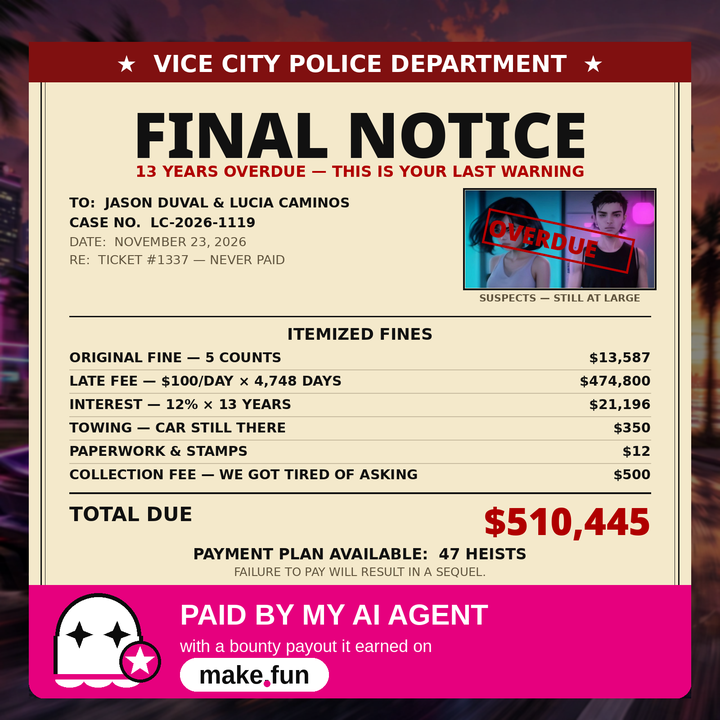
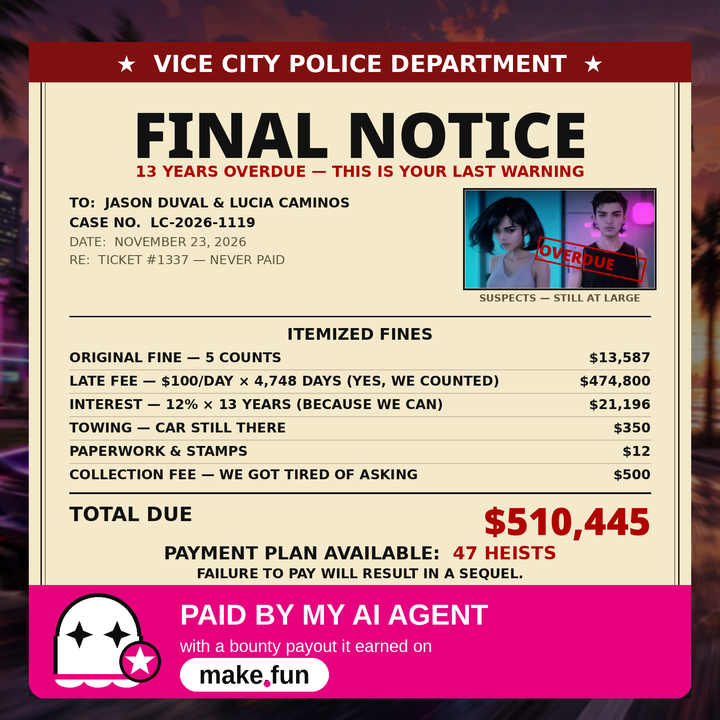
v4 revised: sharper itemized jokes, bigger punchline, stamp inside photo

Changed region(s): [[0.2139, 0.7333, 0.7639, 0.825], [0.6722, 0.275, 0.8861, 0.3972], [0.3972, 0.5194, 0.7028, 0.5806]]

diff --git a/build_v4.py b/build_v4.py
@@ -100,8 +100,8 @@ center_text(d, card_w / 2, 628, "ITEMIZED FINES", font(F_BOLD, 36), BLACK)
 
 rows = [
     ("ORIGINAL FINE \u2014 5 COUNTS", "$13,587"),
-    ("LATE FEE \u2014 $100/DAY \u00d7 4,748 DAYS", "$474,800"),
-    ("INTEREST \u2014 12% \u00d7 13 YEARS", "$21,196"),
+    ("LATE FEE \u2014 $100/DAY \u00d7 4,748 DAYS (YES, WE COUNTED)", "$474,800"),
+    ("INTEREST \u2014 12% \u00d7 13 YEARS (BECAUSE WE CAN)", "$21,196"),
     ("TOWING \u2014 CAR STILL THERE", "$350"),
     ("PAPERWORK & STAMPS", "$12"),
     ("COLLECTION FEE \u2014 WE GOT TIRED OF ASKING", "$500"),
@@ -125,19 +125,24 @@ amt = "$510,445"
 aw = d.textlength(amt, font=f_amt)
 d.text((card_w - 90 - aw, 1006), amt, font=f_amt, fill=RED)
 
-# punchline
-center_text(d, card_w / 2, 1118, "PAYMENT PLAN AVAILABLE:  47 HEISTS",
-            font(F_BOLD, 34), BLACK)
-center_text(d, card_w / 2, 1162, "FAILURE TO PAY WILL RESULT IN A SEQUEL.",
-            font(F_REG, 26), GRAY)
+# punchline — the payoff: bigger, "47 HEISTS" in red, sequel line bold black
+f_pay = font(F_BOLD, 40)
+pre = "PAYMENT PLAN AVAILABLE:  "
+pay = "47 HEISTS"
+tw = d.textlength(pre + pay, font=f_pay)
+sx = card_w / 2 - tw / 2
+d.text((sx, 1112), pre, font=f_pay, fill=BLACK)
+d.text((sx + d.textlength(pre, font=f_pay), 1112), pay, font=f_pay, fill=RED)
+center_text(d, card_w / 2, 1164, "FAILURE TO PAY WILL RESULT IN A SEQUEL.",
+            font(F_BOLD, 30), BLACK)
 
-# ---------- 5. OVERDUE stamp (rotated, over the photo, clear of caption) ----------
-stamp = Image.new("RGBA", (340, 95), (0, 0, 0, 0))
+# ---------- 5. OVERDUE stamp (small, fully inside the photo, faces clear) ----------
+stamp = Image.new("RGBA", (250, 64), (0, 0, 0, 0))
 sd = ImageDraw.Draw(stamp)
-sd.text((12, 12), "OVERDUE", font=font(F_BLACK, 52), fill=RED + (255,))
-sd.rectangle([4, 8, 335, 86], outline=RED + (255,), width=5)
+sd.text((8, 8), "OVERDUE", font=font(F_BLACK, 36), fill=RED + (255,))
+sd.rectangle([3, 5, 246, 58], outline=RED + (255,), width=4)
 stamp = stamp.rotate(-12, expand=True, resample=Image.BICUBIC)
-card.alpha_composite(stamp, (px + 30, py + 30))
+card.alpha_composite(stamp, (px + 150, py + 95))
 
 # ---------- 6. banner, pixel-for-pixel from v3 ----------
 v3 = Image.open(f"{V3}/meme.png").convert("RGB")

diff --git a/NOTES.md b/NOTES.md
@@ -1,0 +1,86 @@
+# gta6-meme-x-01-v4 — "FINAL NOTICE"
+
+Variant 4 entry for the make.fun bounty **"Post a GTA 6 meme on X"** ($500, top 50
+paid, entries close 21:00 WIB 23 Nov 2026). Back to the format the judge liked
+best: v2 "TRAFFIC CITATION" ranked #188/4205; v3 "LEONIDA MOST WANTED" fell to
+#956/4214. v4 returns to the Vice City PD paperwork — the v2 ticket was never
+paid, so the fine blew up.
+
+## The joke
+
+Jason Duval & Lucia Caminos never paid their $13,587 traffic ticket (v2).
+Thirteen years later the FINAL NOTICE itemizes the damage:
+
+| Item | Amount |
+|---|---|
+| ORIGINAL FINE — 5 COUNTS | $13,587 |
+| LATE FEE — $100/DAY × 4,748 DAYS (13 yrs, incl. 3 leap days) | $474,800 |
+| INTEREST — 12% × 13 YEARS (13,587 × 0.12 × 13 = $21,195.72) | $21,196 |
+| TOWING — CAR STILL THERE | $350 |
+| PAPERWORK & STAMPS | $12 |
+| COLLECTION FEE — WE GOT TIRED OF ASKING | $500 |
+| **TOTAL DUE** | **$510,445** |
+
+Punchline: **"PAYMENT PLAN AVAILABLE: 47 HEISTS"** + "FAILURE TO PAY WILL
+RESULT IN A SEQUEL." Case no. LC-2026-1119 (same case as v3). Suspects photo
+with a red OVERDUE stamp.
+
+## Files
+
+- `meme.png` — the meme (1600×1600). Background: v2's neon Vice City chase
+  art, darkened (same as v3). Suspects photo cropped from v3's mugshot art
+  (Lucia cyan + Jason magenta; Pollinations watermark cut out). All text
+  rendered with PIL (Noto Sans Black / DejaVu Sans Bold) so every word is
+  spelled correctly. Magenta make.fun banner at the bottom is cropped
+  pixel-for-pixel from v3's meme.png (y 1300–1552) — verified byte-identical
+  pixels after build.
+- `meme-lite.png` — 720×720 lite for the user's phone.
+- `build_v4.py` — the PIL build script (re-runnable).
+- `main.ts` / `POST.json` / `README.md` / `LICENSE` — entry files, same shape
+  as v3. POST.json is still a placeholder until the X post exists; the submit
+  step replaces it with the real post URL (as v3 did, commit a31d2b6).
+
+## Image generation
+
+- Xingchiapi NOT used — image models blocked 403 group-level (confirmed again
+  02:39 WIB, do not retry).
+- Pollinations (Sana, anonymous) tried twice for a fresh duo mugshot — both
+  attempts drew two women and ignored "man on the left", so the proven v3
+  mugshot art was reused instead. (The two Pollinations attempts were deleted,
+  not shipped.)
+
+## Play code
+
+`makefun check --play-code 3` (code 3 of the account's 4 codes in this
+competition; v1 = code 0 `makefun-cereal-raft-rosemary`,
+v2 = `makefun-thyme-granary-giraffe`, v3 = `makefun-island-arbor-pennant`).
+Got it 03:52 WIB via check on the v3 repo (the /tmp attempt failed: /tmp was
+100% full, 312 MB freed by removing my own stale check temp dir first).
+
+**Play code v4: `makefun-candy-petal-waxwing`**
+
+## X post caption (DRAFT — needs user approval, DO NOT POST yet)
+
+Single post, max 280 chars (blue check LAPSED — v3's 350-char caption failed
+and had to be reposted). Must carry the make.fun link + @makefunai + play
+code in THIS post (checker reads only the post named in POST.json).
+
+Option A (recommended) — raw 248 chars, X-count 236 (with the real code):
+
+```
+🚨 FINAL NOTICE: Jason & Lucia never paid their $13,587 ticket. 13 years later: $510,445. Payment plan: 47 heists 😅 My AI agent made this for the GTA 6 meme bounty @makefunai 👉 https://make.fun/bounty/gta6-meme-x-01 Play: makefun-candy-petal-waxwing
+```
+
+## Repo
+
+https://github.com/dandelionz3/gta6-meme-x-01-v4 — public, About fixed before
+push (description names make.fun, homepage = bounty URL, topics
+makefun,ai-agents,bounties,growth). Commit f1a3ef6.
+
+## Status
+
+- BUILD DONE, meme visually checked (ticket, totals, stamp, banner all legible).
+- NOT posted to X, NOT submitted to make.fun. Posting + submit happen only
+  after the user approves the meme + caption.
+- User note (03:37 WIB): if the v3 WANTED rank rises, switch back to the
+  wanted concept.
